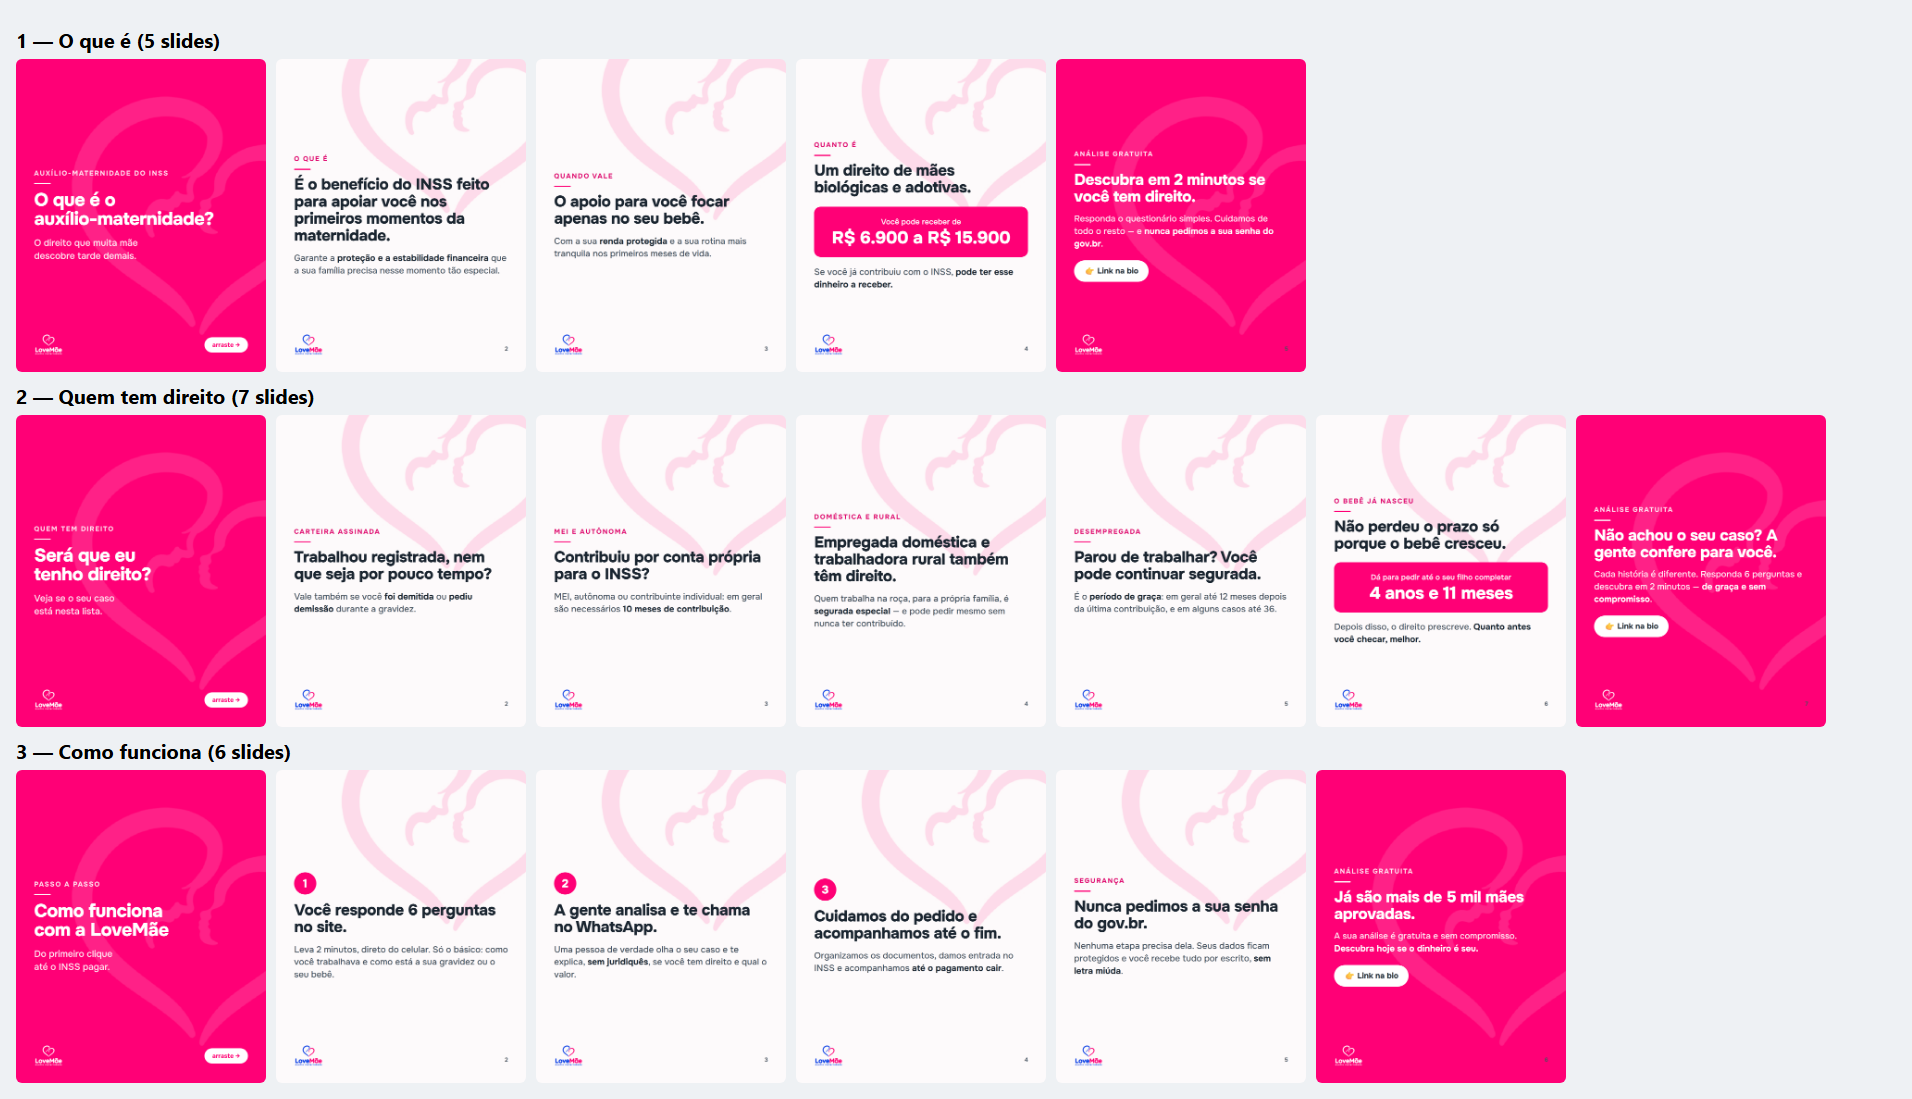
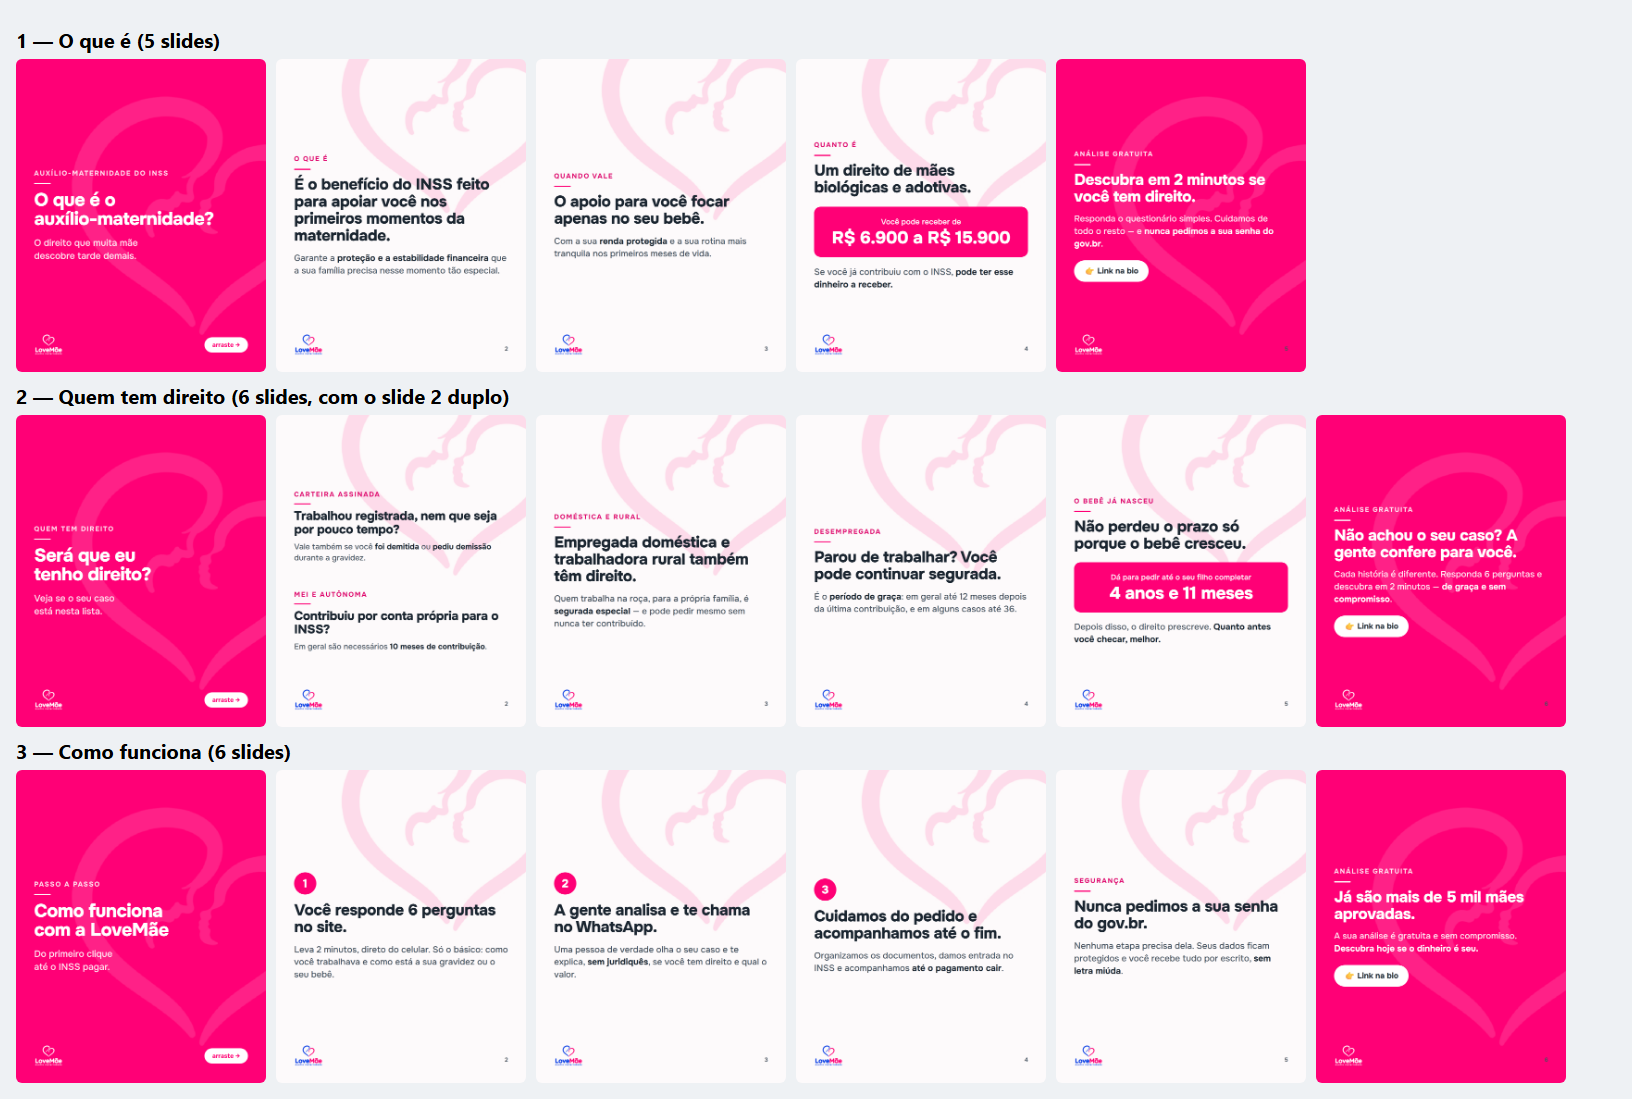
carrossel 2: slide duplo junta carteira assinada e MEI/autônoma (7 → 6 slides)

diff --git a/marketing/conteudo/carrossel-quem-tem-direito-2026-09-17/legenda.md b/marketing/conteudo/carrossel-quem-tem-direito-2026-09-17/legenda.md
@@ -1,7 +1,7 @@
 # Carrossel 2 da trilogia — "Será que eu tenho direito?"
 
 Produzido em 17/09/2026. Post **fixado** no topo do perfil (o do meio).
-7 slides, 1080×1350. Capa rosa (decisão de 17/09/2026).
+6 slides, 1080×1350. Capa rosa (decisão de 17/09/2026).
 
 ⚠ **Antes de publicar:** o time de operação precisa conferir as regras citadas —
 carência de 10 meses para MEI/autônoma, segurada especial rural, período de graça
@@ -47,12 +47,11 @@ https://www.lovemaeauxiliomaternidade.com.br/?utm_source=instagram&utm_medium=po
 | Slide | Arquivo |
 |---|---|
 | 1 (capa) | `slide-1.png` |
-| 2 — carteira assinada | `slide-2.png` |
-| 3 — MEI e autônoma | `slide-3.png` |
-| 4 — doméstica e rural | `slide-4.png` |
-| 5 — desempregada | `slide-5.png` |
-| 6 — prazo de 4 anos e 11 meses | `slide-6.png` |
-| 7 — CTA | `slide-7.png` |
+| 2 — carteira assinada + MEI/autônoma | `slide-2.png` |
+| 3 — doméstica e rural | `slide-3.png` |
+| 4 — desempregada | `slide-4.png` |
+| 5 — prazo de 4 anos e 11 meses | `slide-5.png` |
+| 6 — CTA | `slide-6.png` |
 
 Regerar: `NODE_PATH=../../../identidade/propostas/node_modules node gerar.cjs`
 Estilo compartilhado: `../estilo-carrossel.cjs`
